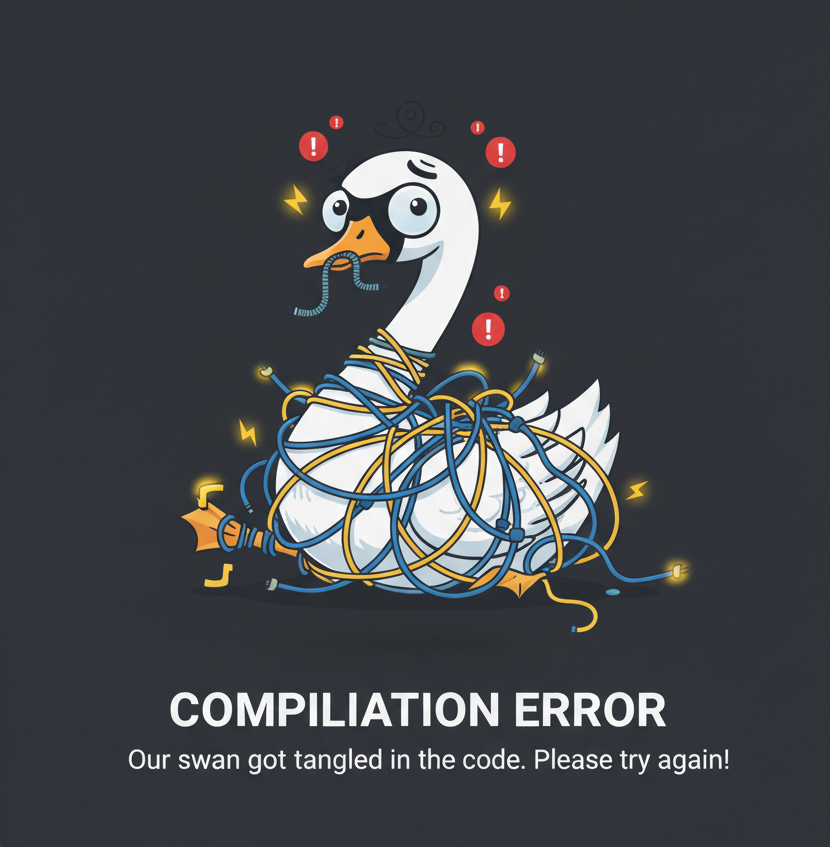
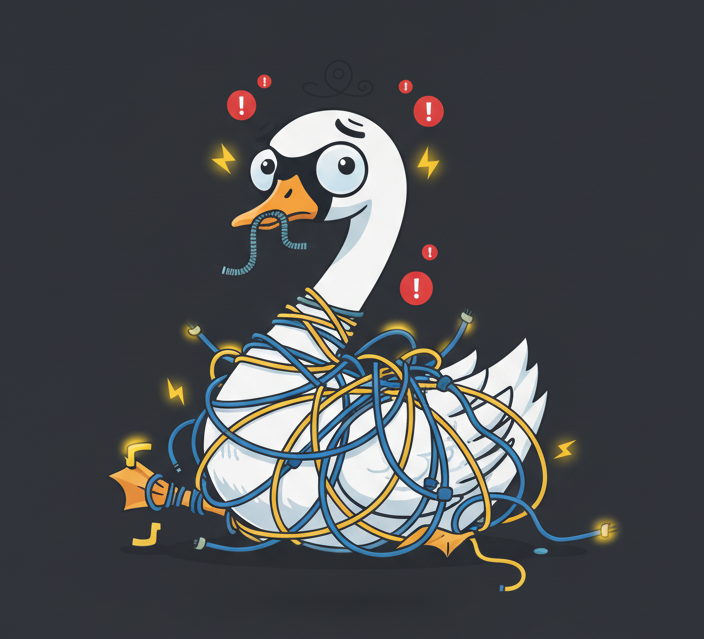
feat: Enhance ErrorBoundary with theme detection and improved error display; add swan illustration and responsive styles for better user experience

Changed region(s): [[0.1562, 0.1189, 0.875, 0.9218]]

diff --git a/frontend-vite/src/main.jsx b/frontend-vite/src/main.jsx
@@ -20,6 +20,21 @@ class ErrorBoundary extends React.Component {
 
   render() {
     if (this.state.hasError) {
+      // Detect theme
+      const isDark = window.matchMedia && window.matchMedia('(prefers-color-scheme: dark)').matches;
+      const htmlTheme = document.documentElement.getAttribute('data-theme');
+      const savedTheme = localStorage.getItem('theme');
+      const theme = savedTheme || htmlTheme || (isDark ? 'dark' : 'light');
+      
+      const swanImage = theme === 'dark' 
+        ? '/something-went-wrong-dark.png' 
+        : '/something-went-wrong.png';
+      
+      const bgColor = theme === 'dark' ? '#1a1a1a' : '#f5f5f5';
+      const textColor = theme === 'dark' ? '#ffffff' : '#1a1a1a';
+      const errorColor = theme === 'dark' ? '#f87171' : '#dc2626';
+      const subtextColor = theme === 'dark' ? '#94a3b8' : '#64748b';
+      
       return (
         <div style={{
           display: 'flex',
@@ -27,29 +42,128 @@ class ErrorBoundary extends React.Component {
           alignItems: 'center',
           justifyContent: 'center',
           height: '100vh',
-          fontFamily: 'system-ui, -apple-system, sans-serif',
-          background: '#1a1a1a',
-          color: '#fff',
-          padding: '20px'
+          fontFamily: 'system-ui, -apple-system, BlinkMacSystemFont, "Segoe UI", sans-serif',
+          background: bgColor,
+          color: textColor,
+          padding: '40px 20px',
+          textAlign: 'center'
         }}>
-          <h1 style={{ marginBottom: '10px' }}>Something went wrong</h1>
-          <p style={{ marginBottom: '20px', color: '#aaa' }}>
-            {this.state.error?.message || 'An unexpected error occurred'}
-          </p>
-          <button
-            onClick={() => window.location.reload()}
-            style={{
-              padding: '10px 20px',
-              background: '#52c3c2',
-              color: '#fff',
-              border: 'none',
-              borderRadius: '4px',
-              cursor: 'pointer',
-              fontSize: '16px'
-            }}
-          >
-            Reload Page
-          </button>
+          <div style={{
+            maxWidth: '500px',
+            width: '100%',
+            animation: 'fadeIn 0.5s ease-out'
+          }}>
+            {/* Swan Illustration */}
+            <img 
+              src={swanImage}
+              alt="Ballerina Swan Error"
+              style={{
+                width: '100%',
+                maxWidth: '400px',
+                height: 'auto',
+                marginBottom: '2rem',
+                animation: 'swanShake 0.6s ease-in-out'
+              }}
+            />
+            
+            {/* Error Title */}
+            <h1 style={{ 
+              fontSize: '2rem',
+              fontWeight: '700',
+              color: errorColor,
+              margin: '0 0 1rem 0',
+              letterSpacing: '-0.025em'
+            }}>
+              Something Went Wrong
+            </h1>
+            
+            {/* Error Message */}
+            <p style={{ 
+              fontSize: '1.125rem',
+              color: subtextColor,
+              margin: '0 0 2rem 0',
+              lineHeight: '1.6'
+            }}>
+              Our swan got tangled in the code. Please try again!
+            </p>
+            
+            {/* Technical Error Details (optional) */}
+            {this.state.error?.message && (
+              <div style={{
+                background: theme === 'dark' ? 'rgba(0,0,0,0.3)' : 'rgba(0,0,0,0.05)',
+                padding: '1rem',
+                borderRadius: '8px',
+                marginBottom: '2rem',
+                fontSize: '0.875rem',
+                color: subtextColor,
+                fontFamily: 'monospace',
+                textAlign: 'left',
+                overflow: 'auto',
+                maxHeight: '100px'
+              }}>
+                {this.state.error.message}
+              </div>
+            )}
+            
+            {/* Reload Button */}
+            <button
+              onClick={() => window.location.reload()}
+              style={{
+                padding: '12px 32px',
+                background: 'linear-gradient(135deg, #52c3c2 0%, #45b0af 100%)',
+                color: '#ffffff',
+                border: 'none',
+                borderRadius: '8px',
+                cursor: 'pointer',
+                fontSize: '1rem',
+                fontWeight: '600',
+                boxShadow: '0 4px 12px rgba(82, 195, 194, 0.3)',
+                transition: 'all 0.2s ease',
+                outline: 'none'
+              }}
+              onMouseOver={(e) => {
+                e.target.style.transform = 'translateY(-2px)';
+                e.target.style.boxShadow = '0 6px 16px rgba(82, 195, 194, 0.4)';
+              }}
+              onMouseOut={(e) => {
+                e.target.style.transform = 'translateY(0)';
+                e.target.style.boxShadow = '0 4px 12px rgba(82, 195, 194, 0.3)';
+              }}
+            >
+              Reload Page
+            </button>
+          </div>
+          
+          <style>{`
+            @keyframes fadeIn {
+              from {
+                opacity: 0;
+                transform: translateY(20px);
+              }
+              to {
+                opacity: 1;
+                transform: translateY(0);
+              }
+            }
+            
+            @keyframes swanShake {
+              0%, 100% { transform: translateX(0); }
+              10%, 30%, 50%, 70%, 90% { transform: translateX(-5px); }
+              20%, 40%, 60%, 80% { transform: translateX(5px); }
+            }
+            
+            @media (max-width: 480px) {
+              img {
+                max-width: 280px !important;
+              }
+              h1 {
+                font-size: 1.5rem !important;
+              }
+              p {
+                font-size: 1rem !important;
+              }
+            }
+          `}</style>
         </div>
       );
     }
